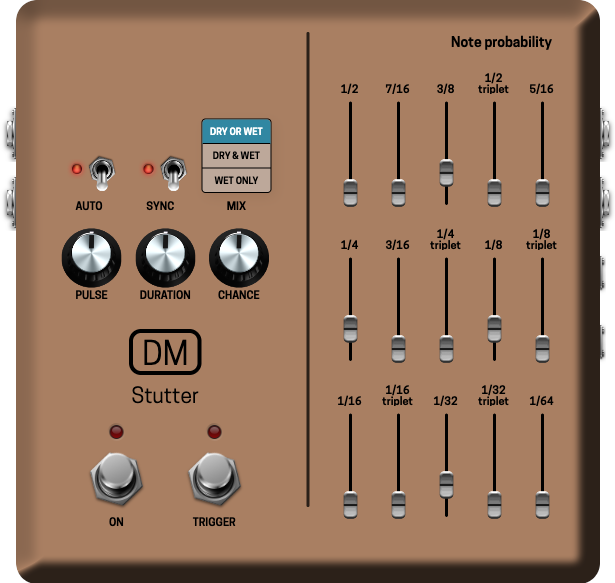
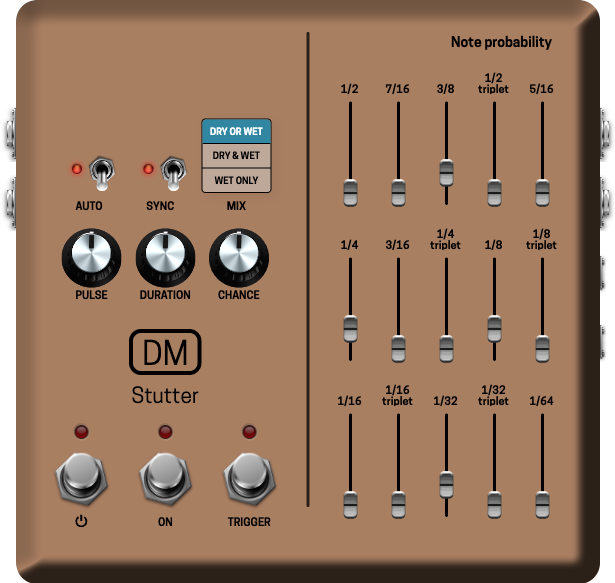
Add bypass switch to modgui

Changed region(s): [[0.0927, 0.7101, 0.4634, 0.9262]]

diff --git a/lv2/dm-Stutter.lv2/modgui/icon-dm-stutter.html b/lv2/dm-Stutter.lv2/modgui/icon-dm-stutter.html
@@ -85,6 +85,25 @@
         <div class="mod-plugin-brand"><h1>{{brand}}</h1></div>
         <div class="mod-plugin-name"><h1>{{label}}</h1></div>
         <div id="footswitches">
+          <div class="mod-footswitch" mod-role="bypass">
+            <div class="mod-light"></div>
+            <span class="mod-knob-title">
+              <svg
+                width="20"
+                height="21"
+                viewBox="-1 -1 22 23"
+                fill="currentColor"
+                stroke="currentColor"
+                stroke-width="1"
+                class="standby"
+                xmlns="http://www.w3.org/2000/svg"
+              >
+                <path
+                  d="M8.432 10.424V0.751999H10.928V10.424H8.432ZM9.728 20.96C8.336 20.96 7.056 20.72 5.888 20.24C4.72 19.776 3.704 19.12 2.84 18.272C1.976 17.424 1.304 16.432 0.824 15.296C0.344 14.144 0.104 12.888 0.104 11.528C0.104 9.992 0.424 8.512 1.064 7.088C1.704 5.664 2.648 4.512 3.896 3.632L5.192 5.312C4.504 5.776 3.936 6.352 3.488 7.04C3.056 7.728 2.728 8.464 2.504 9.248C2.296 10.032 2.192 10.792 2.192 11.528C2.192 12.552 2.376 13.512 2.744 14.408C3.112 15.304 3.632 16.088 4.304 16.76C4.992 17.432 5.792 17.96 6.704 18.344C7.616 18.712 8.616 18.896 9.704 18.896C10.808 18.896 11.816 18.712 12.728 18.344C13.656 17.96 14.456 17.432 15.128 16.76C15.8 16.088 16.32 15.304 16.688 14.408C17.072 13.512 17.264 12.552 17.264 11.528C17.264 10.792 17.152 10.032 16.928 9.248C16.72 8.464 16.392 7.728 15.944 7.04C15.512 6.352 14.952 5.776 14.264 5.312L15.56 3.632C16.808 4.512 17.752 5.664 18.392 7.088C19.032 8.512 19.352 9.992 19.352 11.528C19.352 12.888 19.112 14.144 18.632 15.296C18.152 16.432 17.48 17.424 16.616 18.272C15.752 19.12 14.728 19.776 13.544 20.24C12.376 20.72 11.104 20.96 9.728 20.96Z"
+                />
+              </svg>
+            </span>
+          </div>
           <div
             class="mod-footswitch"
             mod-role="input-control-port"

diff --git a/lv2/dm-Stutter.lv2/modgui/stylesheet-dm-stutter.css b/lv2/dm-Stutter.lv2/modgui/stylesheet-dm-stutter.css
@@ -70,9 +70,15 @@
     margin-bottom: 40px;
     display: flex;
     flex-direction: row;
-    gap: 32px;
+    gap: 18px;
     flex: 1;
     justify-content: center;
+}
+
+.mod-pedal-boxy{{{cns}}} .standby {
+    width: 13px;
+    height: auto;
+    margin-top: -2px;
 }
 
 /* = PLUGIN'S AUTHOR
